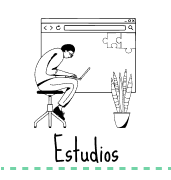
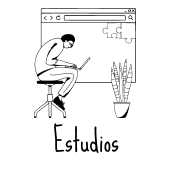
cambio de icono, elimina border

diff --git a/index.html b/index.html
@@ -90,9 +90,9 @@
                                 
                                 
                             </div>
-                            <div class="col-xs-12 col-sm-6 col-md-6 text-center  ">
+                            <div class="col-xs-12 col-sm-6 col-md-6 text-center">
                                 
-                                <img src="./asset/ilustracion.png" id="ilustracion" class="img-fluid " alt="">
+                                <img src="./asset/ilustracion.png" id="ilustracion" class="img-fluid" alt="">
         
                             </div>
                         
@@ -116,8 +116,8 @@
 
                 <!-- sobre mi -->
                 <div class="row  d-flex justify-content-center m-3 ">
-                    <h2 class="m-3 subTitulos colorFuente2" id="sobreMi"> Sobre mi</h2>
-                    <div class="col-xs-12 col-sm-10 col-md-10 text-center  ">
+                    <h2 class="m-3 subTitulos colorFuentes" id="sobreMi"> Sobre mi</h2>
+                    <div class="col-xs-12 col-sm-10 col-md-10 text-center  colorFuentes">
                         <p class=" p-5 ">Me capacité como programador “Full Stack” usando JavaScript y PHP como lenguaje. 
                             Manejo HTML5, css3, Sass, Bootstrap, React y también Java (Básico). 
                             Utilizo Github como repositorio remoto. Soy diseñador UX/UI jr. Uso Figma como herramienta.

diff --git a/style.css b/style.css
@@ -1,6 +1,6 @@
 
 body{
-    background-color: #ffffff;
+    background-color: #1e1e1e;
     /* font-family: 'Sue Ellen Francisco', cursive; */
     /* font-family: 'Sue Ellen Francisco'; */
     /* font-family: 'Edu NSW ACT Foundation'; */
@@ -93,6 +93,10 @@ img{
     height: auto;
     width: 150px;
    margin: 100px;
+   padding: 15px;
+   border: #fca311 solid 5px;
+   border-radius: 100%;
+   background-color: white;
 }
 #inicio{
     width: 100%;
@@ -157,7 +161,7 @@ img{
     background-color: #fca311;
     width: 300px;
     height: 300px;
-    border: 1px solid rgba(254, 254, 254, 1);
+    border: 0px solid rgba(254, 254, 254, 1);
     border-radius: 100%;
     margin-bottom: 60px;
     
@@ -191,7 +195,7 @@ img{
     width: 300px;
     height: 400px;
     border-radius: 5px;
-    border: 1px solid rgba(254, 254, 254, 1);
+    border: 0px solid rgba(254, 254, 254, 1);
     margin: 20px;
 
 }  
@@ -235,7 +239,7 @@ img{
     background-color: #fca311;
     height: 100%;
     border-radius: 5px;
-    border: 1px dashed rgb(255, 255, 255);
+    /* border: 1px dashed rgb(255, 255, 255); */
 
 }
 
